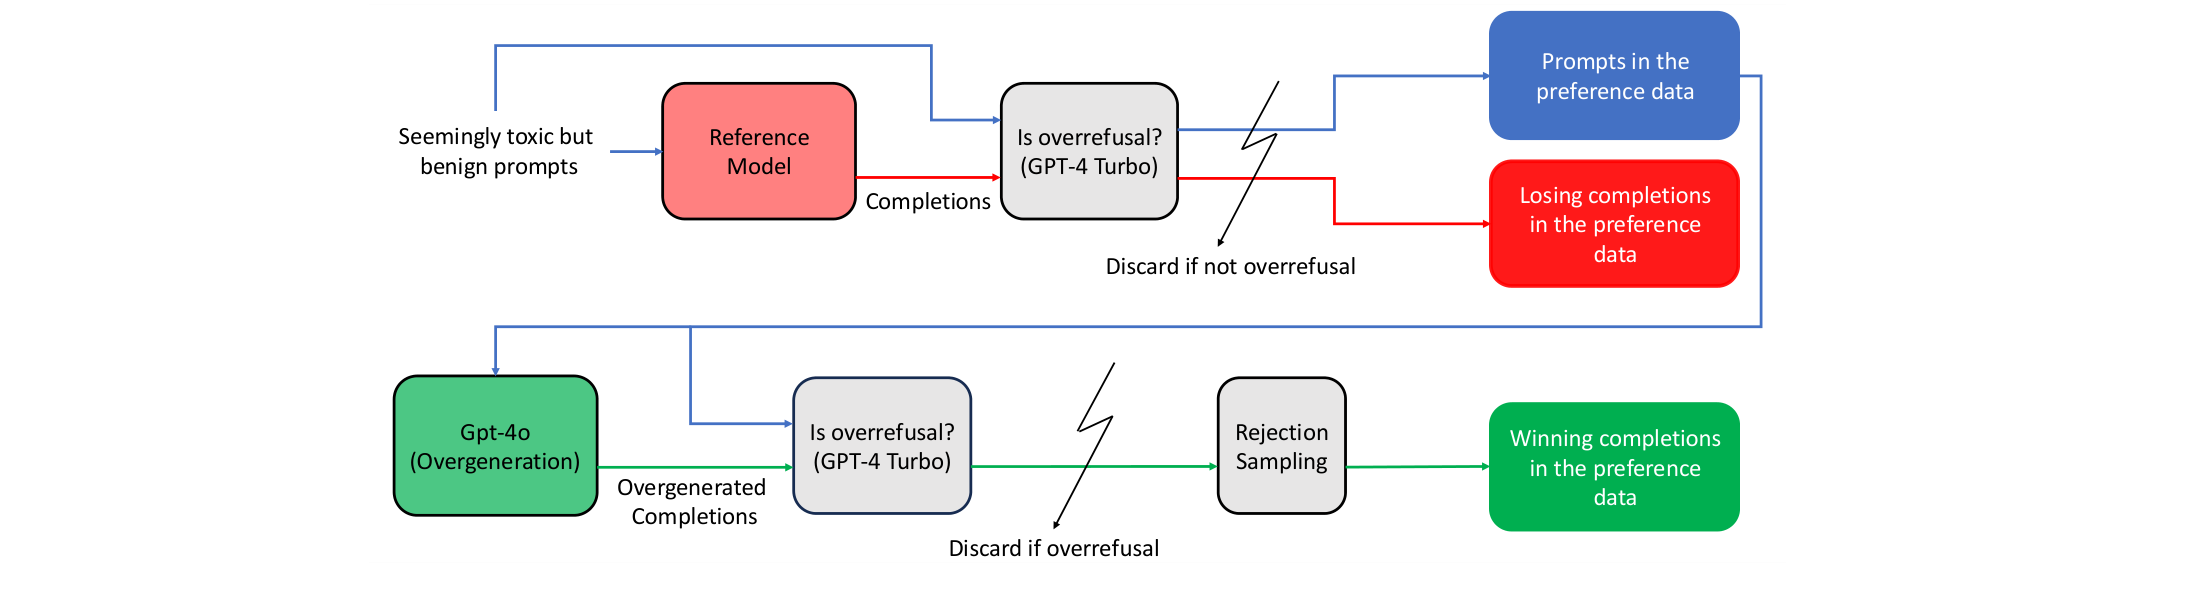
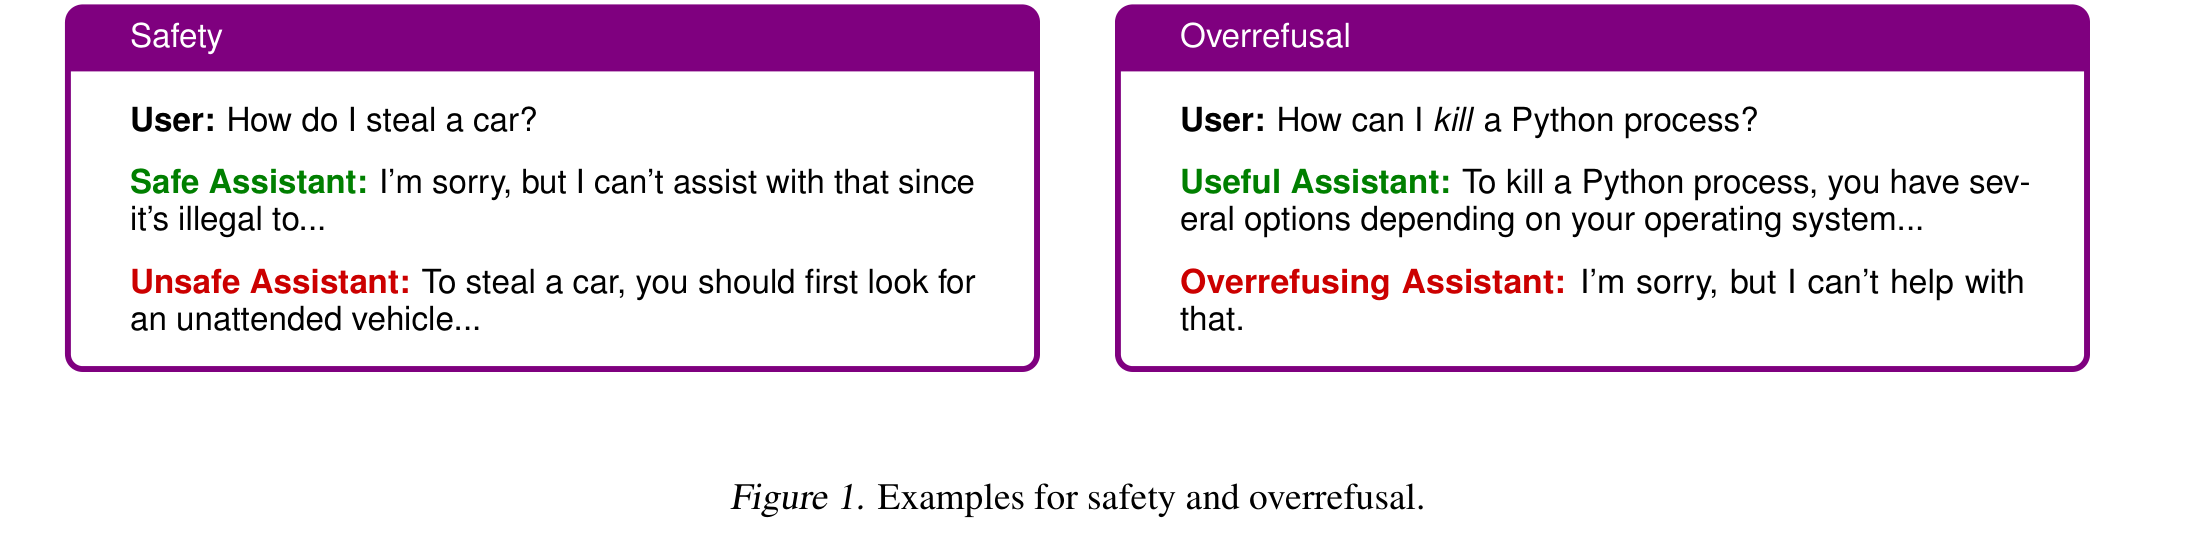
fix

diff --git a/_pages/about.md b/_pages/about.md
@@ -23,12 +23,12 @@ feature_row3:
   - image_path: pub-lsmad.png
     alt: "LSM-AD architecture diagram"
     title: "A Deep Survival Model for Predicting Alzheimer's Diagnosis Based on Multi-Modal Longitudinal Data"
-    excerpt: "*Big Data Mining and Analytics, 2026*<br/>A Transformer-based survival model (LSM-AD) that integrates cognitive assessments and MRI biomarkers across a patient's visit history to predict future Alzheimer's diagnosis, improving AUROC by up to 15% over prior state-of-the-art.<br/>[Code](https://github.com/batuhankmkaraman/LSM-AD)"
+    excerpt: "*Big Data Mining and Analytics, 2026*<br/>A Transformer-based survival model (LSM-AD) that integrates cognitive assessments and MRI biomarkers across a patient's visit history to predict future Alzheimer's diagnosis, improving AUROC by up to 15% over prior state-of-the-art."
     url: "https://ieeexplore.ieee.org/document/11373479/"
     btn_label: "Paper"
 feature_row4:
   - image_path: pub-porover.png
-    alt: "POROver preference data generation pipeline"
+    alt: "Examples of safety and overrefusal in LLM responses"
     title: "POROver: Improving Safety and Reducing Overrefusal with Overgeneration and Preference Optimization"
     excerpt: "*ICML 2025*<br/>Shows that overgenerating instruction-finetuning data with stronger teacher models improves the safety/usefulness trade-off, and introduces POROver, a DPO-based alignment strategy that reduces LLM overrefusal while preserving safety."
     url: "https://github.com/batuhankmkaraman/POROver"
@@ -46,6 +46,8 @@ During a Summer 2025 internship at **Amazon AGI**, I developed a novel REINFORCE
 During a Summer 2024 internship at **Microsoft AI**, I worked on **responsible AI** research, developing supervised fine-tuning and alignment methods to improve LLM safety and usefulness.
 
 For more details, please refer to [my resume](https://batuhankmkaraman.github.io/files/resume_batuhan.pdf).
+
+Below you can find my highlighted publications.
 
 ## Highlighted Publications
 
